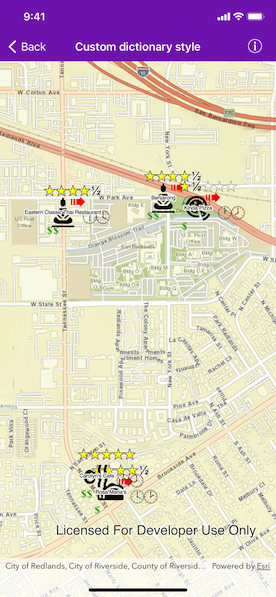
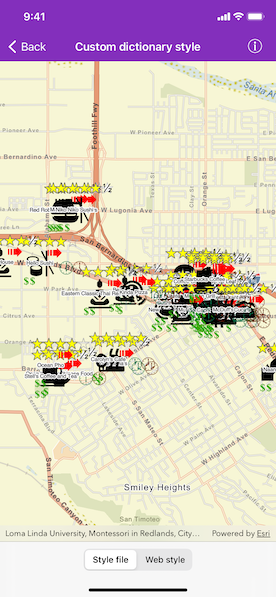
Update doc and screenshot.

diff --git a/arcgis-ios-sdk-samples/Display information/Custom dictionary style/README.md b/arcgis-ios-sdk-samples/Display information/Custom dictionary style/README.md
@@ -1,6 +1,6 @@
 # Custom dictionary style
 
-Use a custom dictionary style (.stylx) to symbolize features using a variety of attribute values.
+Use a custom dictionary style created from a web style or style file to symbolize features using a variety of attribute values.
 
 ![Image of custom dictionary style](custom-dictionary-style.png)
 
@@ -10,22 +10,30 @@ When symbolizing geoelements in your map, you may need to convey several pieces 
 
 ## How to use the sample
 
-Pan and zoom the map to see the symbology from the custom dictionary style.
+Toggle between the dictionary symbols from the web style and style file. Pan and zoom around the map to see the symbology from the chosen dictionary symbol style. The web style and style file are slightly different to each other to give a visual indication of the switch between the two.
 
 ## How it works
 
-1. Create a new `AGSDictionarySymbolStyle` by passing in the URL to the custom style file (.stylx).
-2. Create a new `AGSDictionaryRenderer`, providing the dictionary symbol style.
-3. Apply the dictionary renderer to a feature layer.
+1. Create an `AGSPortalItem`, referring to a `AGSPortal` and the item ID of the web style.
+2. Based on the style selected:
+    * Web style: create a new `AGSDictionarySymbolStyle` from the portal item using `AGSDictionarySymbolStyle.init(portalItem:)` with the portal item.
+    * Style file: create a new `AGSDictionarySymbolStyle` using `AGSDictionarySymbolStyle.init(url:)` with a URL to the style file on local disk.
+3. Create a new `AGSDictionaryRenderer`, providing the dictionary symbol style.
+4. Apply the dictionary renderer to a feature layer.
+5. Add the feature layer to the map's operational layers.
 
 ## Relevant API
 
 * AGSDictionaryRenderer
 * AGSDictionarySymbolStyle
+* AGSPortal
+* AGSPortalItem
 
 ## About the data
 
-The data used in this sample is from a feature layer showing a subset of [restaurants in Redlands, CA](https://services2.arcgis.com/ZQgQTuoyBrtmoGdP/arcgis/rest/services/Redlands_Restaurants/FeatureServer) hosted as a feature service with attributes for rating, style, health score, and open hours. The feature layer is symbolized using a dictionary renderer that displays a single symbol for all of these variables. The renderer uses symbols from a custom [restaurant dictionary style](https://arcgisruntime.maps.arcgis.com/home/item.html?id=751138a2e0844e06853522d54103222a), available as an item from ArcGIS Online, to show unique symbols based on several feature attributes. The symbols it contains were created using ArcGIS Pro. The logic used to apply the symbols comes from an Arcade script embedded in the stylx file (which is a SQLite database), along with a JSON string that defines expected attribute names and configuration properties.
+The data used in this sample is from a feature layer showing a subset of [restaurants in Redlands, CA](https://services2.arcgis.com/ZQgQTuoyBrtmoGdP/arcgis/rest/services/Redlands_Restaurants/FeatureServer) hosted as a feature service with attributes for rating, style, health score, and open hours.
+
+The feature layer is symbolized using a dictionary renderer that displays a single symbol for all of these variables. The renderer uses symbols from a custom restaurant dictionary style created from a [stylx file](https://arcgis.com/home/item.html?id=751138a2e0844e06853522d54103222a) and a [web style](https://arcgis.com/home/item.html?id=adee951477014ec68d7cf0ea0579c800), available as an items from ArcGIS Online, to show unique symbols based on several feature attributes. The symbols it contains were created using ArcGIS Pro. The logic used to apply the symbols comes from an Arcade script embedded in the stylx file (which is a SQLite database), along with a JSON string that defines expected attribute names and configuration properties.
 
 ## Additional information
 
@@ -33,4 +41,4 @@ For information about creating your own custom dictionary style, see the open so
 
 ## Tags
 
-dictionary, military, renderer, style, stylx, unique value, visualization
+dictionary, military, portal, portal item, renderer, style, stylx, unique value, visualization
